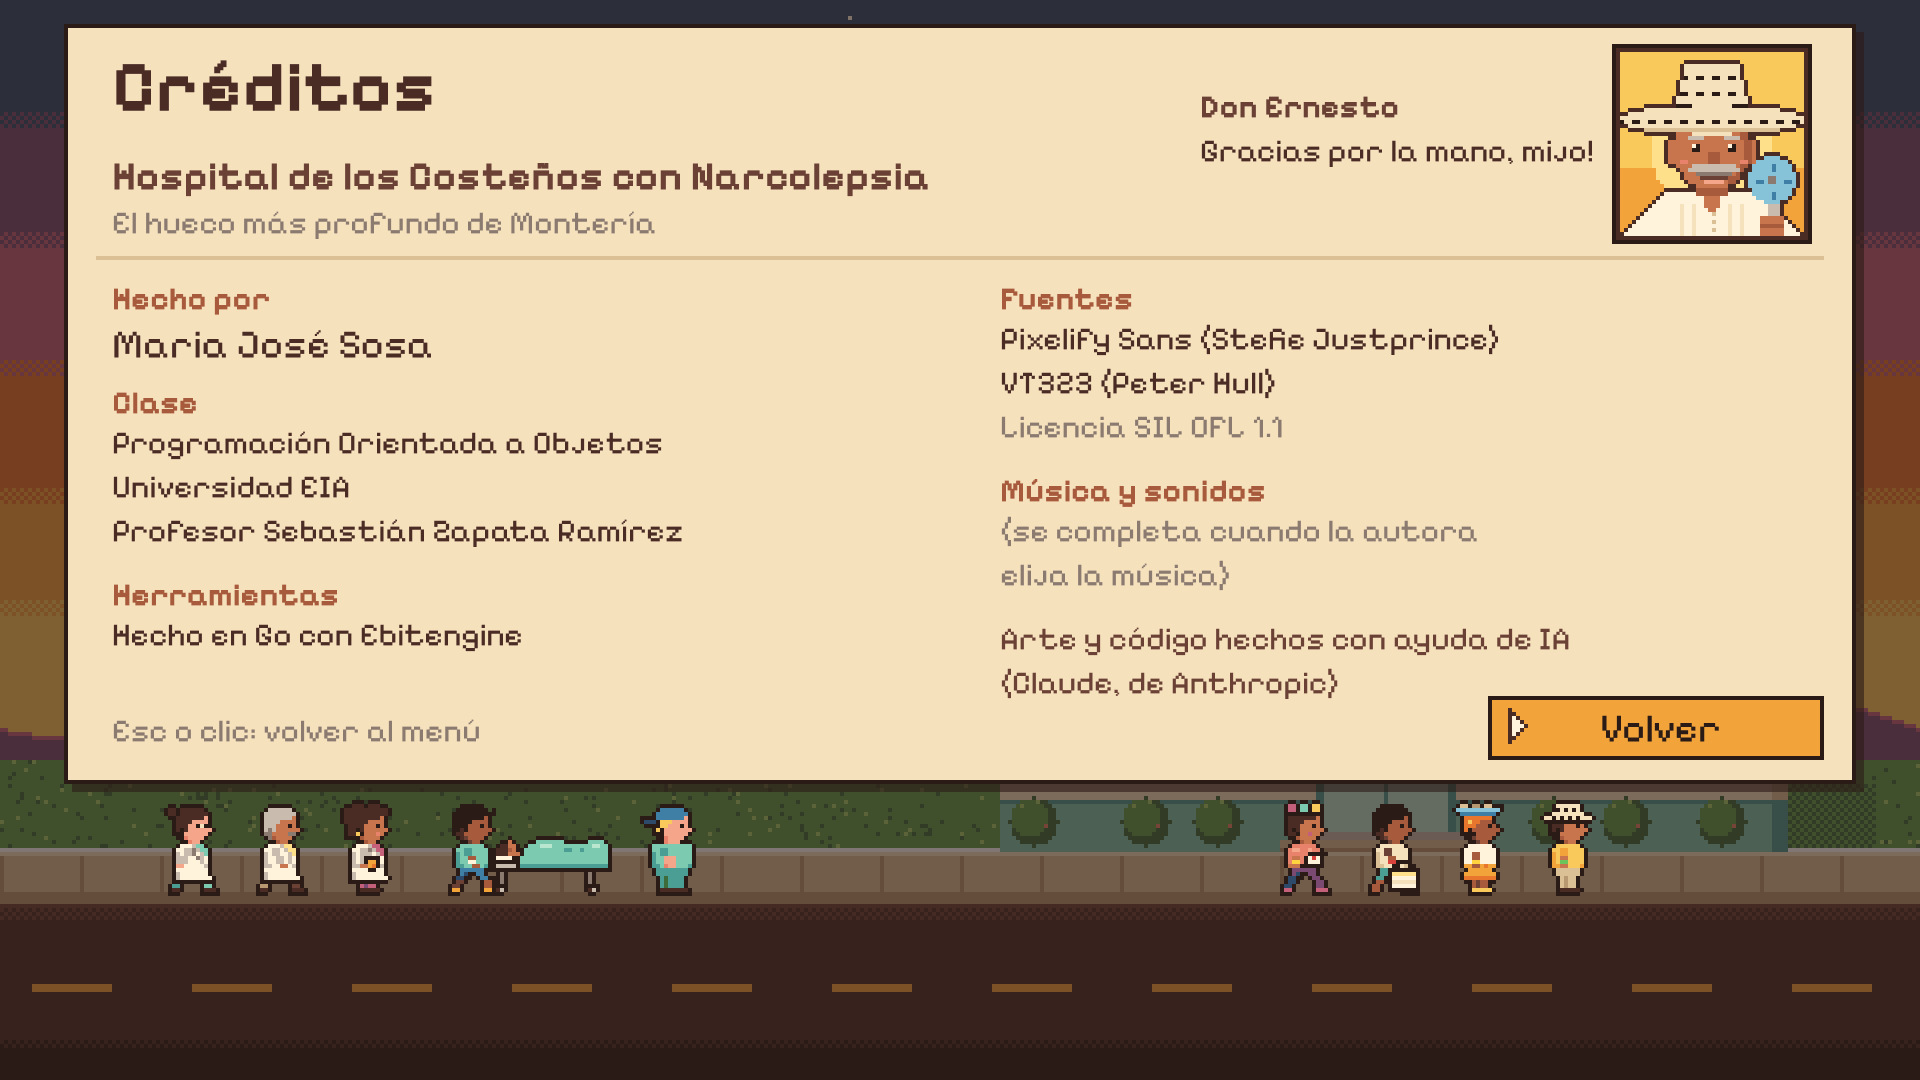
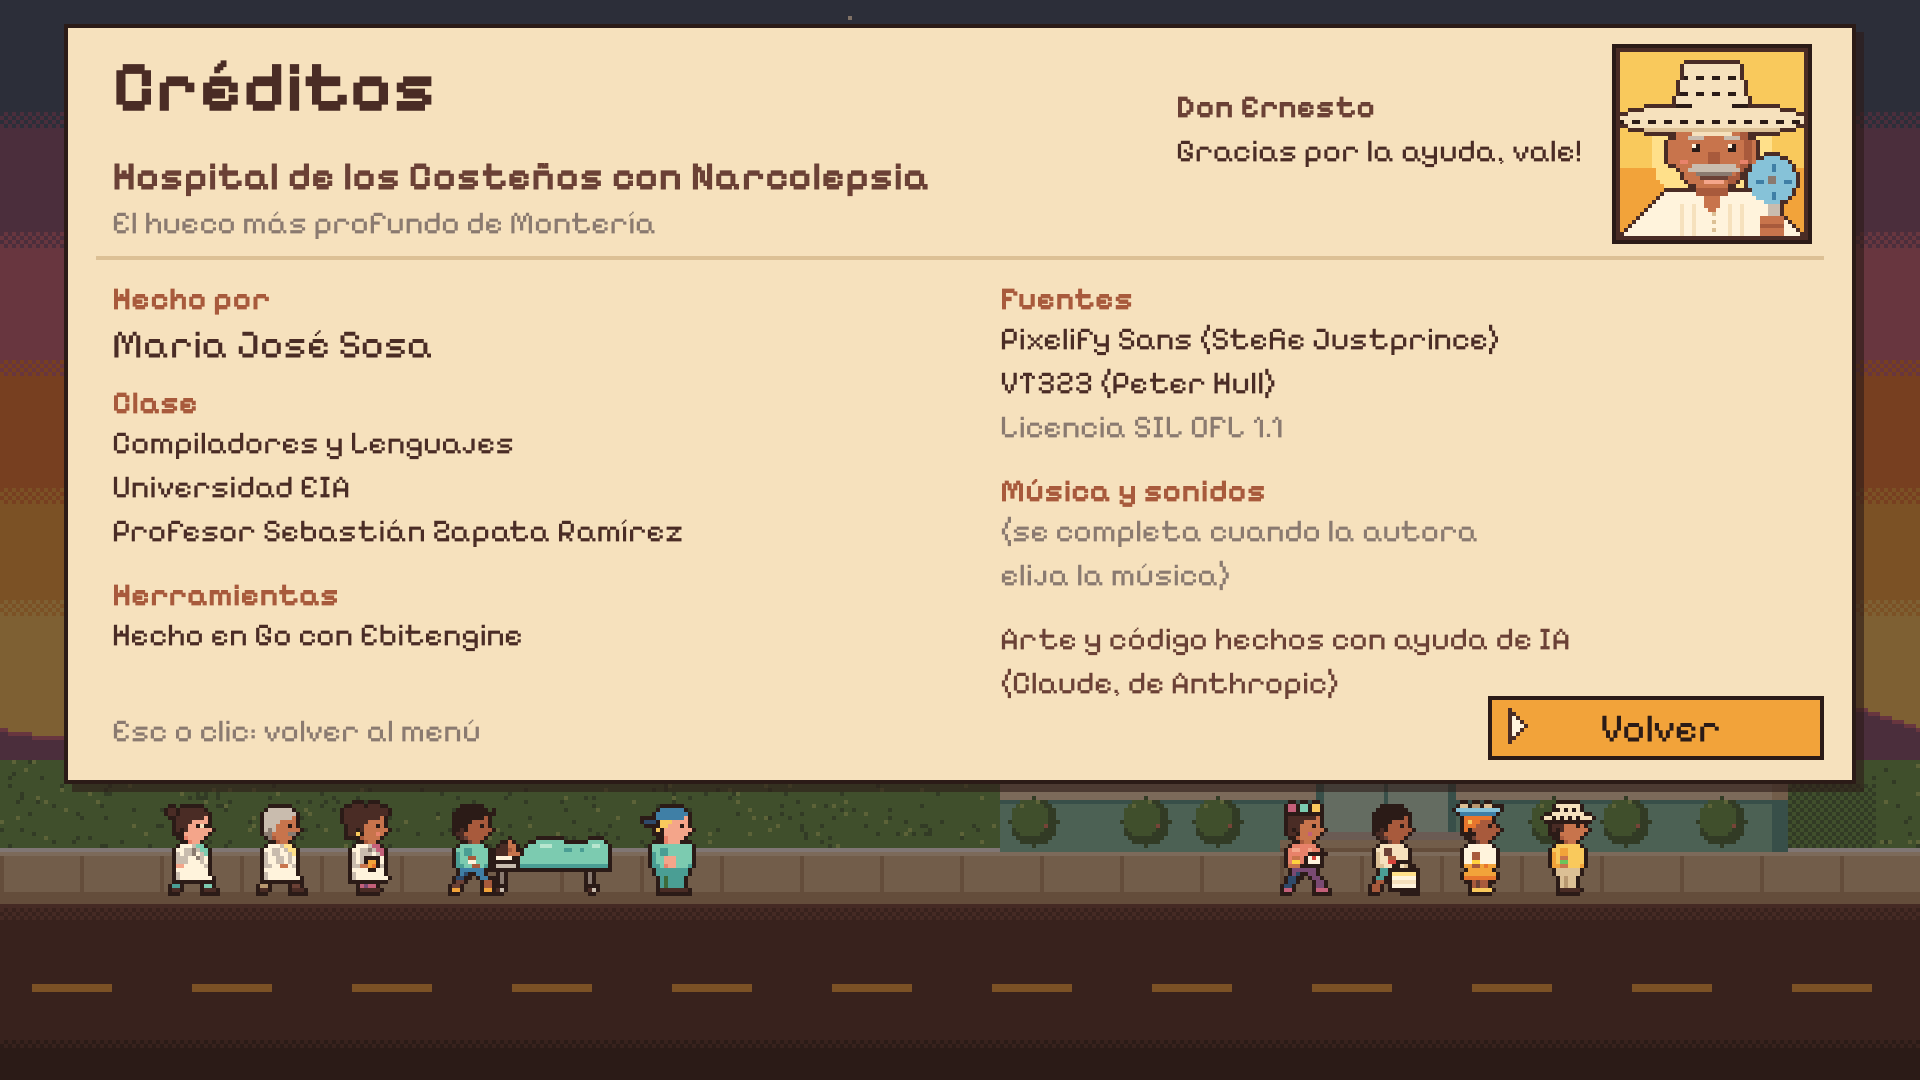
feat(art): add pixel digits and update credits texts

Changed region(s): [[0.5938, 0.0917, 0.8438, 0.1528], [0.0625, 0.3972, 0.3438, 0.4278]]

diff --git a/docs/HospitalCosteños/Dirección de Arte.md b/docs/HospitalCosteños/Dirección de Arte.md
@@ -93,3 +93,4 @@
 | 2026-10-18 | Seis habitaciones distintas `fondo_habitacion_101` … `fondo_habitacion_106` (168×123, 3 cuadros de luz cada una; `fondo_habitacion` queda de respaldo). Cama cerca del centro, libre de la caja del Director (filas 0-42 del fondo) y de la de la Demo (filas 90+). Cada archivo empieza con `// cama: X,Y` (esquina del sprite de 32×30) y `// placa: X,Y` (rect `w` de 9×4 donde va el número, porque la puerta cambia de lado). 101 "Brisa del mar" (cama 68,52; puerta a la derecha, ventana ancha, cuadro del mar, reloj, sombrero, radio); 102 "Currambera" (60,50; puerta a la izquierda, cenefa rojiblanca, TV con el partido, banderín del Junior, neverita); 103 "Del pescador" (76,54; dos ventanas redondas, afiche de pescado, toldillo recogido, conchas); 104 "Sabanera" (66,56; sombrero vueltiao, silla hamaca colgada, biblioteca, mecedora, alfombra wayuu debajo de la cama); 105 "Musical" (72,50; pared coral, abanico de techo, guitarra, calendario, abanico de pie); 106 "Del abuelo" (68,54; pared a rayas, zócalo verde, TV, biblioteca, mecedora, abanico de pie) | `art/sprites/fondo_habitacion_10{1..6}.txt` → `art/png/`; `preview/salas/habitaciones-101-106.png`. Figma pendiente: Figwright no conectó en esta sesión | ✅ Aprobado (2026-10-18): "sip". Falta la vista de referencia en Figma (Figwright desconectado); se aprobó con la hoja de revisión |
 | 2026-10-18 | Vista `Créditos` (se abre desde el menú): panel de la familia de Pausa/Ajustes sobre `menu_fondo` oscurecido, retrato de Don Ernesto ("Gracias por la mano, mijo!") y un desfile del elenco caminando por la acera (cuadros de `*_camina` y `cam_chepe_camilla`). Sin sprites nuevos. Bloque de música con texto provisional; la línea de IA es una propuesta | Figma: página "Hospital Costeños — Pantallas", sección "Pantallas del turno (2026-10-17)", frame `Créditos` (23:2) con su nota para el builder (24:51); `preview/turno/creditos.png`; textos en [[Textos del Director#Pantallas del turno]] | ✅ Aprobado con cambios (2026-10-18): la clase es "Compiladores y Lenguajes" ("Es clase de Compiladores y lenguajes :P"); Don Ernesto dice "Gracias por la ayuda, vale!" ("pon \"gracias por la ayuda vale!\""); línea de IA se queda ("Sip"); "Clase" se queda |
 | 2026-10-18 | Arreglo: fila transparente en `menu_fondo` (bug VISUAL del tester). La fila 212 (costura entre grama y acera) tenía 283 píxeles `.` que el juego pintaba como una línea negra; ahora es `w` crema-clara, un bordillo claro como el blanco que se ve en la vista aprobada. Revisados todos los fondos (`menu_fondo`, `fondo_*`): 0 píxeles transparentes | `art/sprites/menu_fondo.txt` → `art/png/menu_fondo.png`, `menu_fondo@4x.png` | ✅ Arreglo técnico, sin cambio visual aprobado |
+| 2026-10-18 | Dígitos en pixel art (en Pixelify Sans el 5 se lee S: "Día 5" sale "Día S"). Tres tiras de 10 cuadros (0..9), en un solo color `w` que el código tiñe con el color del texto (máscara): `ui_digitos_8` (Pixelify 8 Regular y Bold: avance 5, alto 5, base 7, glifo 4×5), `ui_digitos_10b` (Bold 10: avance 6, alto 6, base 9, glifo 5×6), `ui_digitos_18b` (Bold 18: avance 11, alto 12, base 17, glifo 9×12 con trazo de 2 px). "base" = línea base contada desde la y de `drawText`; la esquina de arriba del dígito va en y + base − alto. El 5 tiene arriba plana y hombro cuadrado; el 1 lleva bandera y pie; el 0 de 10b y 18b lleva un punto en el centro (en 8 no cabe) | `art/sprites/ui_digitos_{8,10b,18b}.txt` → `art/png/`; hoja `preview/turno/digitos.png` (antes y ahora por tamaño, frases "Día 5", "105", "3/4", "1320", "12:45", teñido) | Esperando aprobación |

diff --git a/docs/HospitalCosteños/Textos del Director.md b/docs/HospitalCosteños/Textos del Director.md
@@ -99,7 +99,7 @@ Pasos de la Demo (caja de la Demo, "Paso N de 4"):
 |---|---|
 | Título | "Fin del turno" · "Día N  ·  de 12 a 6  ·  X pacientes atendidos" |
 | Puntos | "Puntos", "de N posibles (P %)", "Excelente", "Bien", "Regular", "Mal", "Bonus severos", "Penalizaciones", "Cama sin alta", "Exceso de trabajo", "Sin atender", "Total" |
-| 5.1 | "Se quedaron sin cama": "Al cerrar el turno: nadie." / "Durante el turno: 1 vez." (o "N veces.") / "{Nombre}, {lugar}" / "(después pasó a la 101)" |
+| 5.1 | "Atendidos sin cama" (antes "Se quedaron sin cama"; la autora: "mejor"): "Al cerrar el turno: nadie." / "Durante el turno: 1 vez." (o "N veces.") / "{Nombre}, {lugar}" / "(después pasó a la 101)" |
 | 5.2 | "Episodios por doctor" (nombre, cantidad y debajo los pacientes) |
 | 5.3 | "Camas" (número y ocupante, o "libre") · "Veces sin cama: N" |
 | 5.4 | "Pacientes severos" ("cama 102", "despierta"/"despierto") · "3 severos, 2 atendidos por doctor" |
@@ -112,4 +112,4 @@ Pasos de la Demo (caja de la Demo, "Paso N de 4"):
 
 **Panel de 5 personas** (días 3 a 5), nombres y roles cortos: "Dra. Karen", "Dr. Álvaro", "Dra. Luz Dary", "Chepe", "El Mono" · "Neurología", "Del sueño", "General", "Camillero".
 
-**Créditos** (esperando aprobación, 2026-10-18): "Créditos" · "Hospital de los Costeños con Narcolepsia" · "El hueco más profundo de Montería" · Don Ernesto: "Gracias por la mano, mijo!" · "Hecho por": "Maria José Sosa" · "Clase": "Programación Orientada a Objetos", "Universidad EIA", "Profesor Sebastián Zapata Ramírez" · "Herramientas": "Hecho en Go con Ebitengine" · "Fuentes": "Pixelify Sans (Stefie Justprince)", "VT323 (Peter Hull)", "Licencia SIL OFL 1.1" · "Música y sonidos": por ahora "(se completa cuando la autora elija la música)"; las líneas finales (CC0/CC-BY) salen de [[Sonido]] · Propuesta: "Arte y código hechos con ayuda de IA (Claude, de Anthropic)" · "Volver" · "Esc o clic: volver al menú".
+**Créditos** (✅ aprobado con cambios, 2026-10-18): "Créditos" · "Hospital de los Costeños con Narcolepsia" · "El hueco más profundo de Montería" · Don Ernesto: "Gracias por la ayuda, vale!" (la autora: "pon \"gracias por la ayuda vale!\""; sin ¡ inicial) · "Hecho por": "Maria José Sosa" · "Clase": "Compiladores y Lenguajes", "Universidad EIA", "Profesor Sebastián Zapata Ramírez" (la autora: "Es clase de Compiladores y lenguajes :P") · "Herramientas": "Hecho en Go con Ebitengine" · "Fuentes": "Pixelify Sans (Stefie Justprince)", "VT323 (Peter Hull)", "Licencia SIL OFL 1.1" · "Música y sonidos": por ahora "(se completa cuando la autora elija la música)"; las líneas finales (CC0/CC-BY) salen de [[Sonido]] · "Arte y código hechos con ayuda de IA (Claude, de Anthropic)" (la autora: "Sip") · "Volver" · "Esc o clic: volver al menú".
